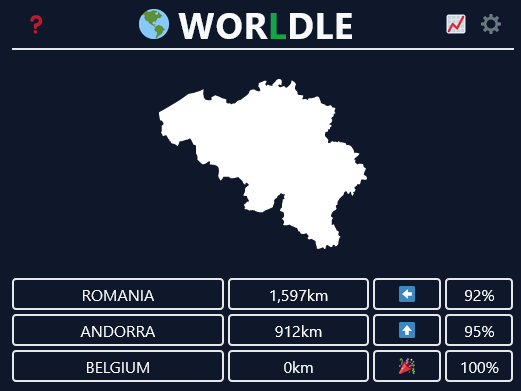
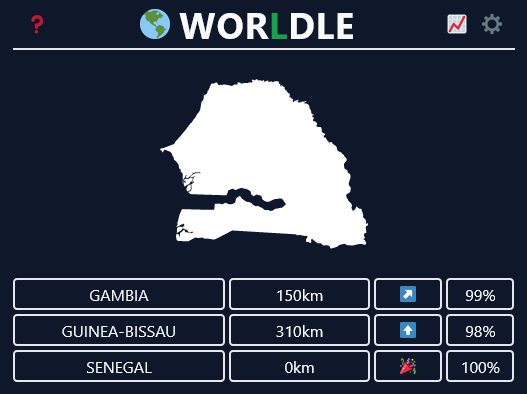
new daily

diff --git a/index.html b/index.html
@@ -21,6 +21,19 @@
     </style>
 </head>
 <body>
+    <div id="result-507">
+        #Worldle #507 3/6 (100%) <br/>
+        🟩🟩🟩🟩🟨↗ <br/>
+        🟩🟩🟩🟩🟨⬆ <br/>
+        🟩🟩🟩🟩🟩🎉 <br/>
+        <a href="https://worldle.teuteuf.fr"> https://worldle.teuteuf.fr</a> <br/>
+        <details>
+            <summary>
+                Spoiler Image of Guesses
+            </summary>
+            <img src="pictures/2023-06-12.png"/>
+        </details>
+    </div>
     <div id="result-506">
         #Worldle #506 3/6 (100%) <br/>
         🟩🟩🟩🟩🟨⬅ <br/>
